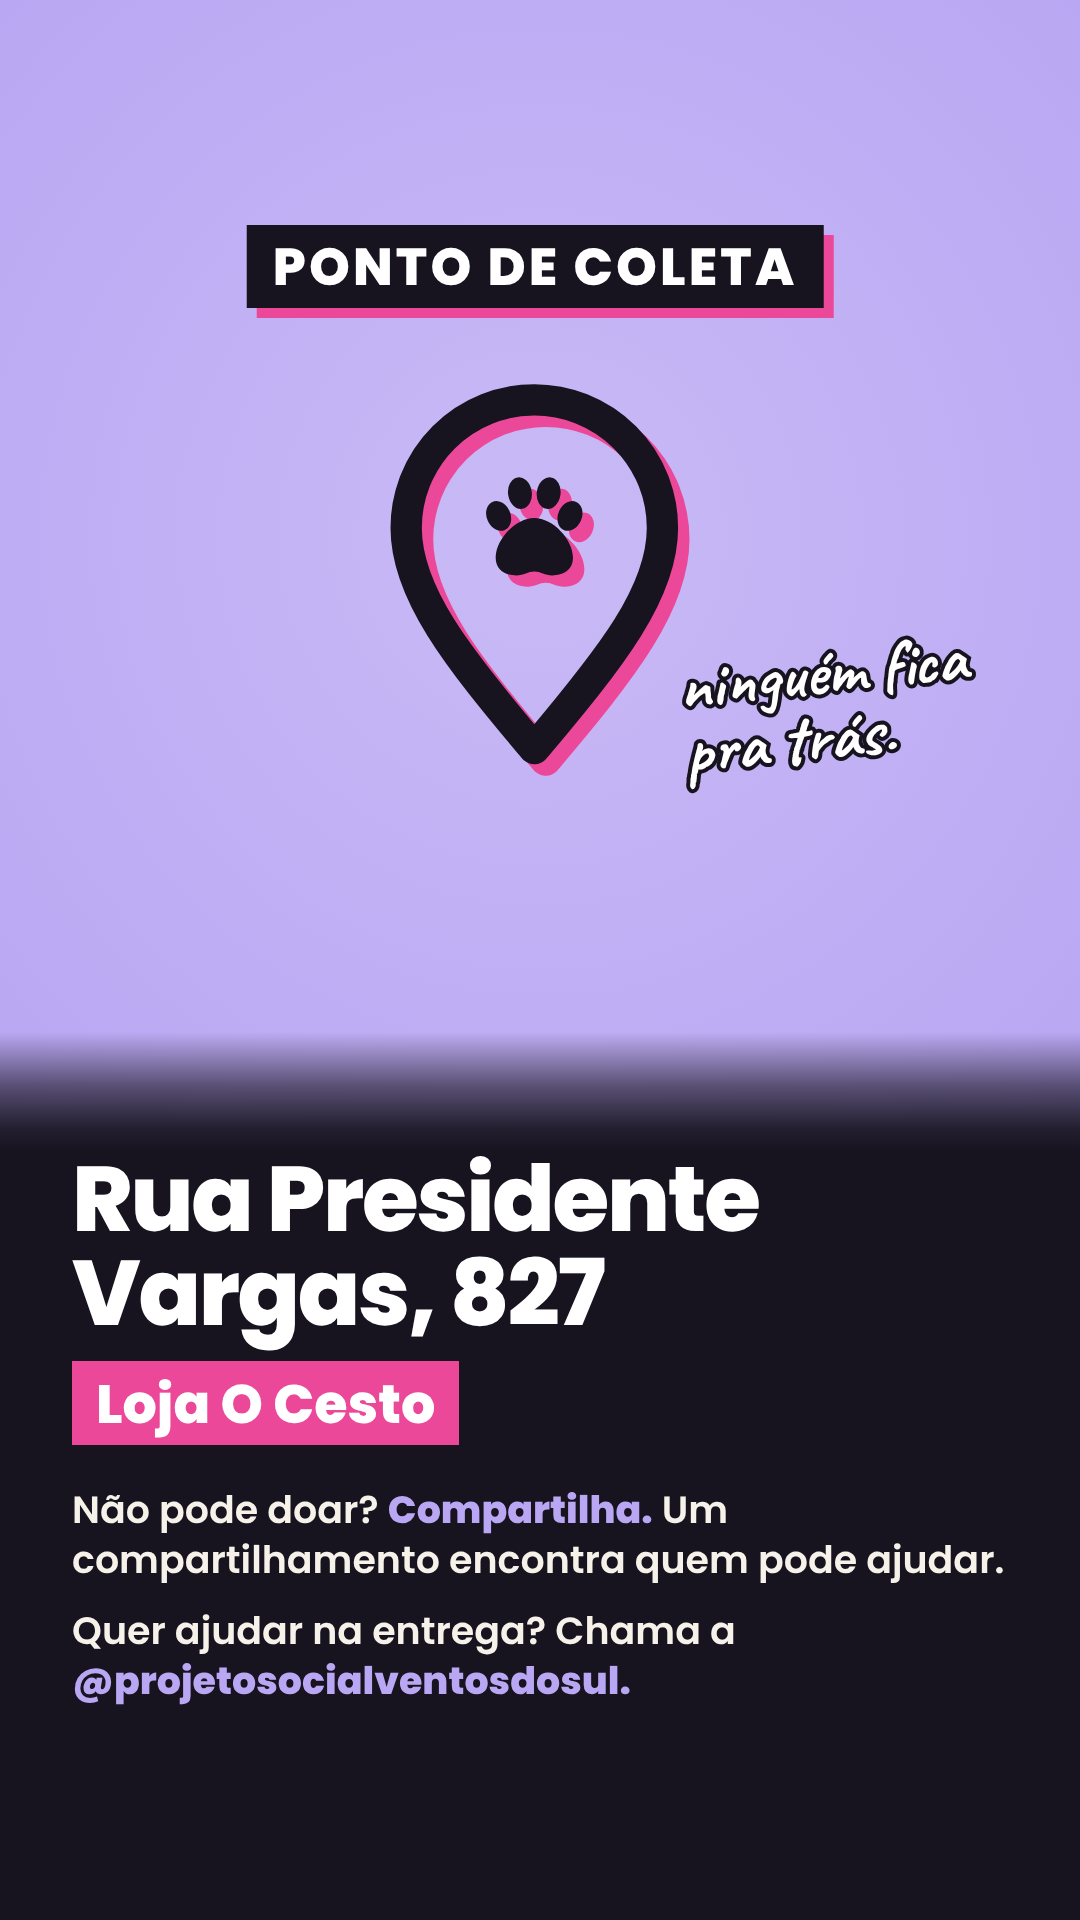
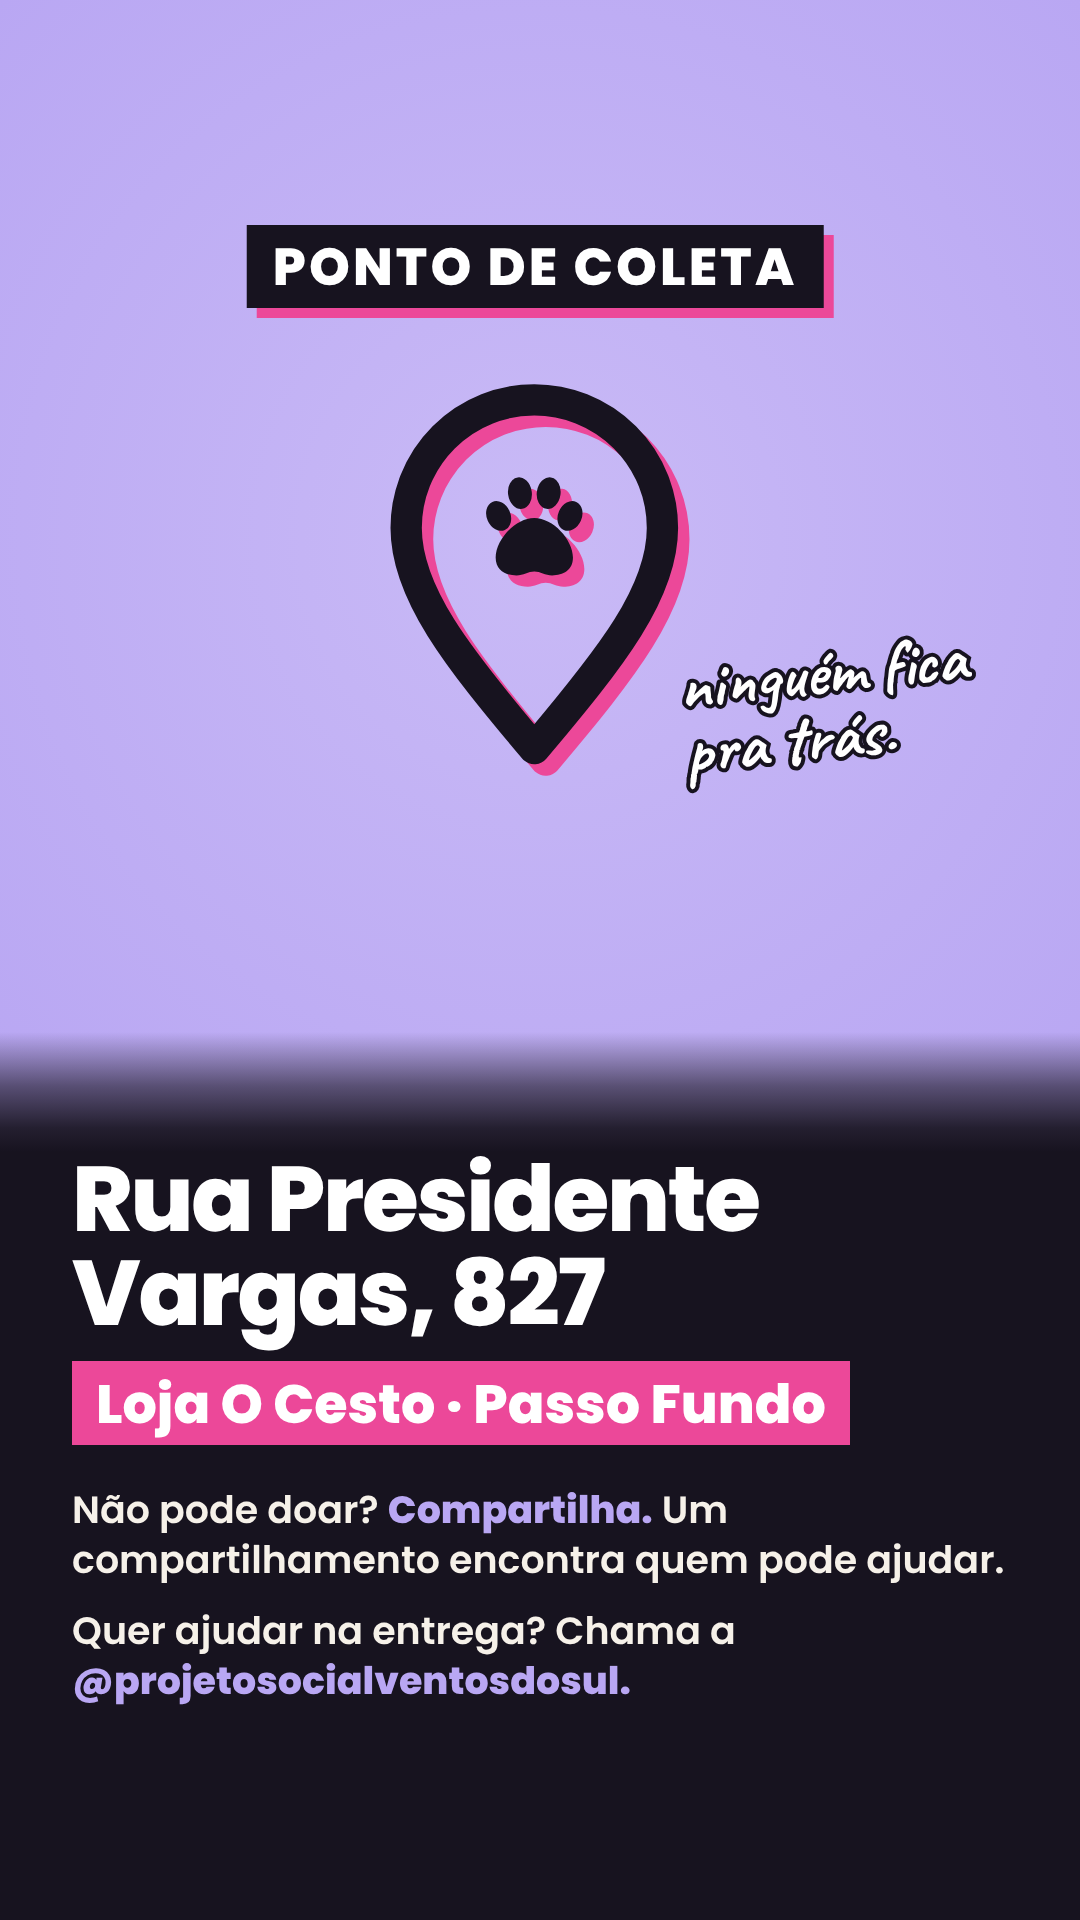
Tupanciretã: ponto de coleta em Passo Fundo
O endereço da Loja O Cesto é em Passo Fundo (confirmado pela Isabela):
entra no Story 3, para ninguém achar que a entrega é em Tupanciretã.

Claude-Session: https://claude.ai/code/session_01E463xH9BcWVb3vVwhdwWao

Changed region(s): [[0.3972, 0.6875, 0.7944, 0.75]]

diff --git a/templates/campanhas/tupancireta.html b/templates/campanhas/tupancireta.html
@@ -8,7 +8,7 @@
   depois dos temporais e alagamentos (nov/2026). ONG de confiança, confirmada pela Isabela.
   Só o que o post da ONG diz: os 5 bairros (Moraes, Olho da Cobra, Pedreira, Severo e Chiaretta), animais com fome,
   sem pote pra água e sem coleira; o protetor Márcio; roupa já tem bastante; a lista do que falta; o ponto de coleta
-  (Rua Presidente Vargas, 827, Loja O Cesto); compartilhar; ajudar na entrega falando com a ONG.
+  (Rua Presidente Vargas, 827, Loja O Cesto, em Passo Fundo, confirmado pela Isabela); compartilhar; ajudar na entrega falando com a ONG.
   Nada de dinheiro nem PIX: só itens, direto no ponto de coleta.
   Visual dos Stories de dica (../dicas/dica.css): 3 Stories, na ordem em que vão ao ar.
   Render: sh templates/campanhas/render.sh tupancireta → saida/tupancireta-1..3.png
@@ -92,7 +92,7 @@
   <div class="mao" style="right:110px;top:640px;color:#fff">ninguém fica<br>pra trás.</div>
   <div class="txt">
     <div class="end">Rua Presidente Vargas, 827</div>
-    <div class="loja">Loja O Cesto</div>
+    <div class="loja">Loja O Cesto · Passo Fundo</div>
     <div class="acao">
       <div>Não pode doar? <b>Compartilha.</b> Um compartilhamento encontra quem pode ajudar.</div>
       <div>Quer ajudar na entrega? Chama a <b>@projetosocialventosdosul.</b></div>
